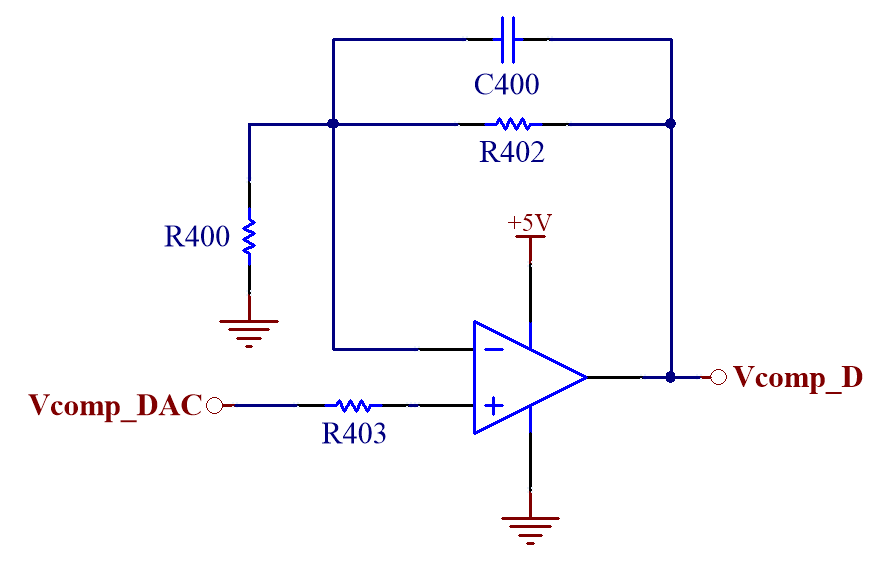
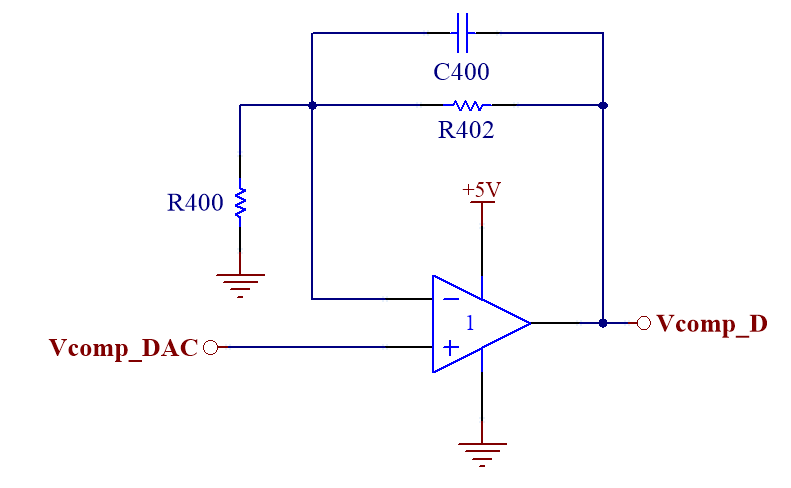
cambios de imaegnes

Changed region(s): [[0.0303, 0.0307, 0.9709, 0.9529]]

diff --git a/Informe final/Proyecto Levitador LaTeX/Informe/7-ImplementacionDigital/ImplementacionDigital.tex b/Informe final/Proyecto Levitador LaTeX/Informe/7-ImplementacionDigital/ImplementacionDigital.tex
@@ -440,12 +440,12 @@ Para obtener la tensión $Vy_{ref_{ADC}}$ se utiliza el circuito mostrado en la 
 
 \begin{figure}[H]
 	\centering
-	\includegraphics[scale=0.5]{Circuito-ref-posicion_dig.png}
+	\includegraphics[scale=0.8]{Circuito-ref-posicion_dig.png}
 	\caption{Circuito acondicionador para referencia de posición.}
 	\label{fig:circuito-ref-posicion}
 \end{figure}
 
-\colorbox{red}{Cambiar nombre a imagen Vyref y VyrefADC}
+\colorbox{red}{Cambiar nombre a imagen Vyref y VyrefADC} - listo
 %
 %Como se ve en la expresión \ref{eq_vyref_vs_yg}, la señal tiene un punto de operación de $3.4\:V$. Por lo tanto si se implementa un circuito de acondicionamiento que le reste este valor, se obtiene una señal apta para el ADC.
 %  
@@ -654,7 +654,7 @@ Para que la frecuencia de corte del filtro se encuentre en $1.75\:kHz$, se plant
 
 De esta forma, se obtiene $C_{400}=18\:nF$. 
 
-\colorbox{red}{Aclaramos para que se usa R403?} capaz la sacamos de la imgen jeje	
+\colorbox{red}{Aclaramos para que se usa R403?} capaz la sacamos de la imgen jeje	- listo
 
 
 \subsubsection{Salida del estimador}
